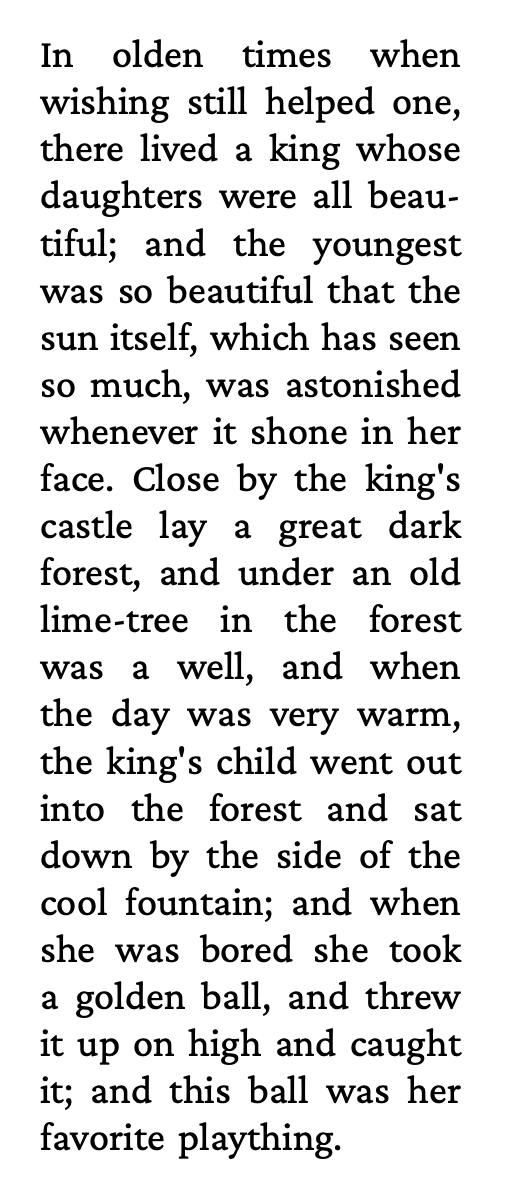
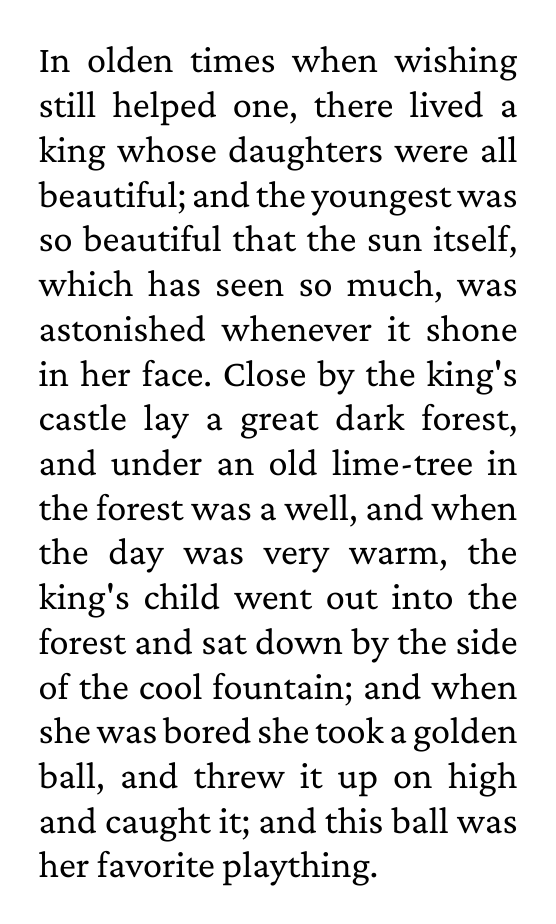
Widen helloworld to 150pt
Same change as in the boxesandglue Readme: at 125pt two lines ran
over the measure. result.pdf and firstpage.png are regenerated.

The module moves from bag v0.2.0 to the current release v0.2.66
(with baseline-pdf v1.1.24 and textshape v0.0.16), so that go run
produces what firstpage.png shows.

Changed region(s): [[0.0618, 0.0303, 0.9266, 0.9697]]

diff --git a/frontend/helloworld/main.go b/frontend/helloworld/main.go
@@ -57,7 +57,7 @@ func typesetSample() error {
 
 	// Format the text into a paragraph. Some of these settings (font family and
 	// font size) can be part of the typesetting element.
-	vlist, _, err := f.FormatParagraph(para, bag.MustSP("125pt"),
+	vlist, _, err := f.FormatParagraph(para, bag.MustSP("150pt"),
 		frontend.Leading(bag.MustSP("14pt")),
 		frontend.FontSize(bag.MustSP("12pt")),
 		frontend.Family(f.FindFontFamily("text")),
